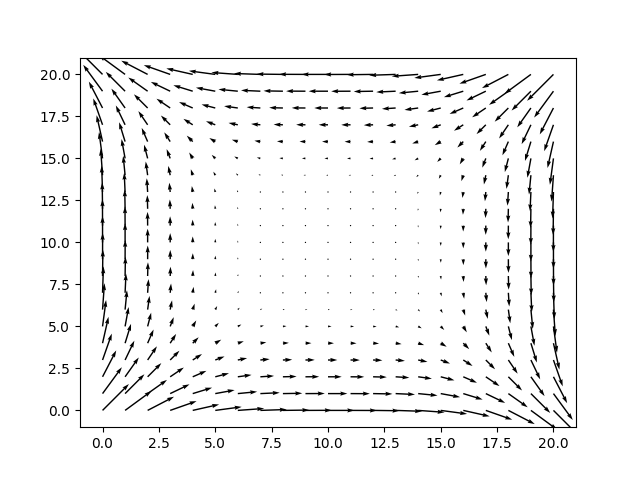
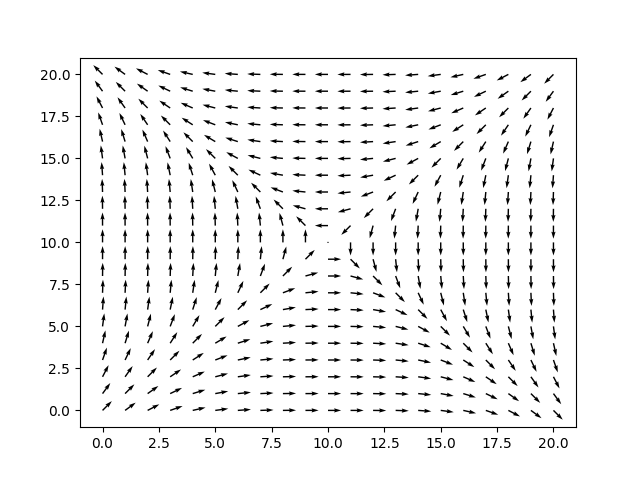
Normalized quiver.py script

diff --git a/python-prototyping/supplementary-6/definite_vector_field.py b/python-prototyping/supplementary-6/definite_vector_field.py
@@ -107,15 +107,17 @@ def vector_frame(p):
 
 
 if __name__ == '__main__':
-    p_space = np.linspace(0.1, 2.0, 200)
-    for p in progressbar(p_space):
-        vector_frame(p)
-
-    frames = []
-    for p in p_space:
-        image = imageio.v2.imread(f'./img/img_{p:.2f}.png')
-        frames.append(image)
-
-    imageio.mimsave('./example.gif',  # output gif
-                    frames,  # array of input frames
-                    fps=30)  # optional: frames per second
+    vector_frame(0.9)
+    vector_frame(1.1)
+    # p_space = np.linspace(0.1, 2.0, 200)
+    # for p in progressbar(p_space):
+    #     vector_frame(p)
+    #
+    # frames = []
+    # for p in p_space:
+    #     image = imageio.v2.imread(f'./img/img_{p:.2f}.png')
+    #     frames.append(image)
+    #
+    # imageio.mimsave('./example.gif',  # output gif
+    #                 frames,  # array of input frames
+    #                 fps=30)  # optional: frames per second

diff --git a/scripts/quiver.py b/scripts/quiver.py
@@ -1,4 +1,5 @@
 import matplotlib.pyplot as plt
+import numpy as np
 from sys import argv
 
 if __name__ == "__main__":
@@ -9,6 +10,15 @@ if __name__ == "__main__":
 
     data_u = [[float(num) for num in line.strip().split(" ")] for line in data_u_raw]
     data_v = [[float(num) for num in line.strip().split(" ")] for line in data_v_raw]
+
+    data_u = np.array(data_u)
+    data_v = np.array(data_v)
+
+    sf = np.sqrt(data_u**2 + data_v**2)
+    sf += 0.000001
+
+    data_u /= sf
+    data_v /= sf
 
     plt.quiver(data_u, data_v)
     plt.savefig("QUIVER.png")
